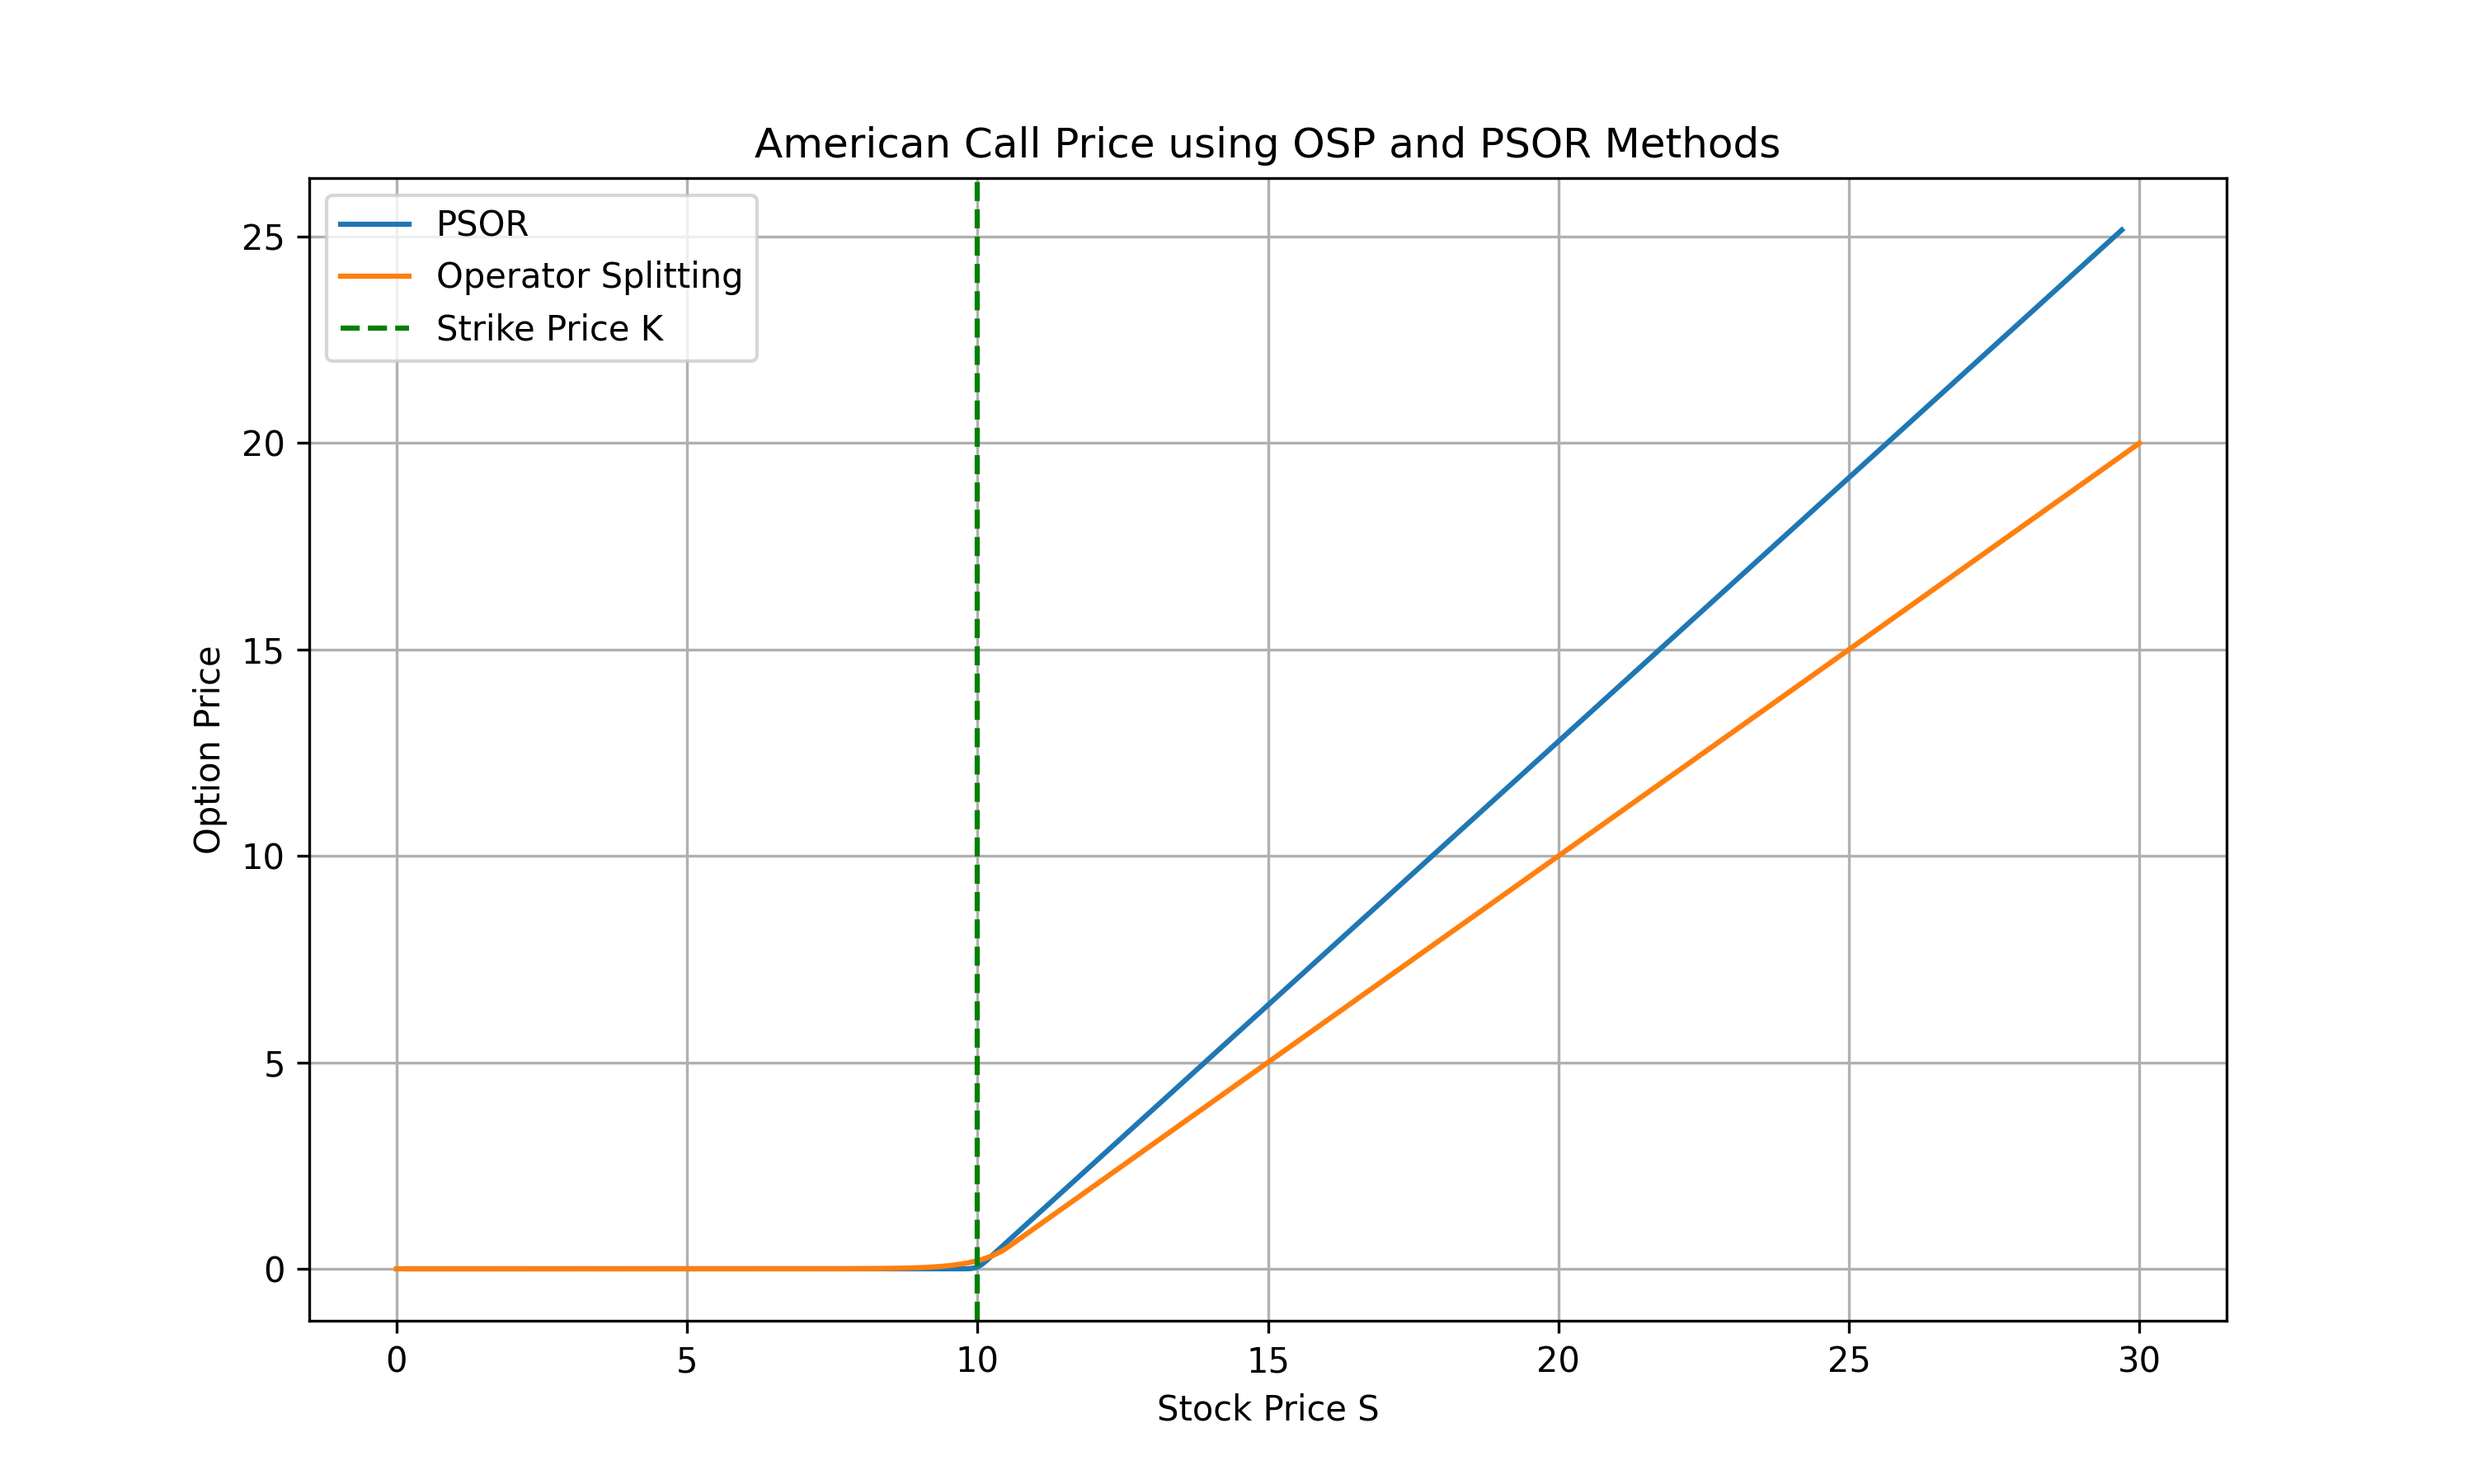
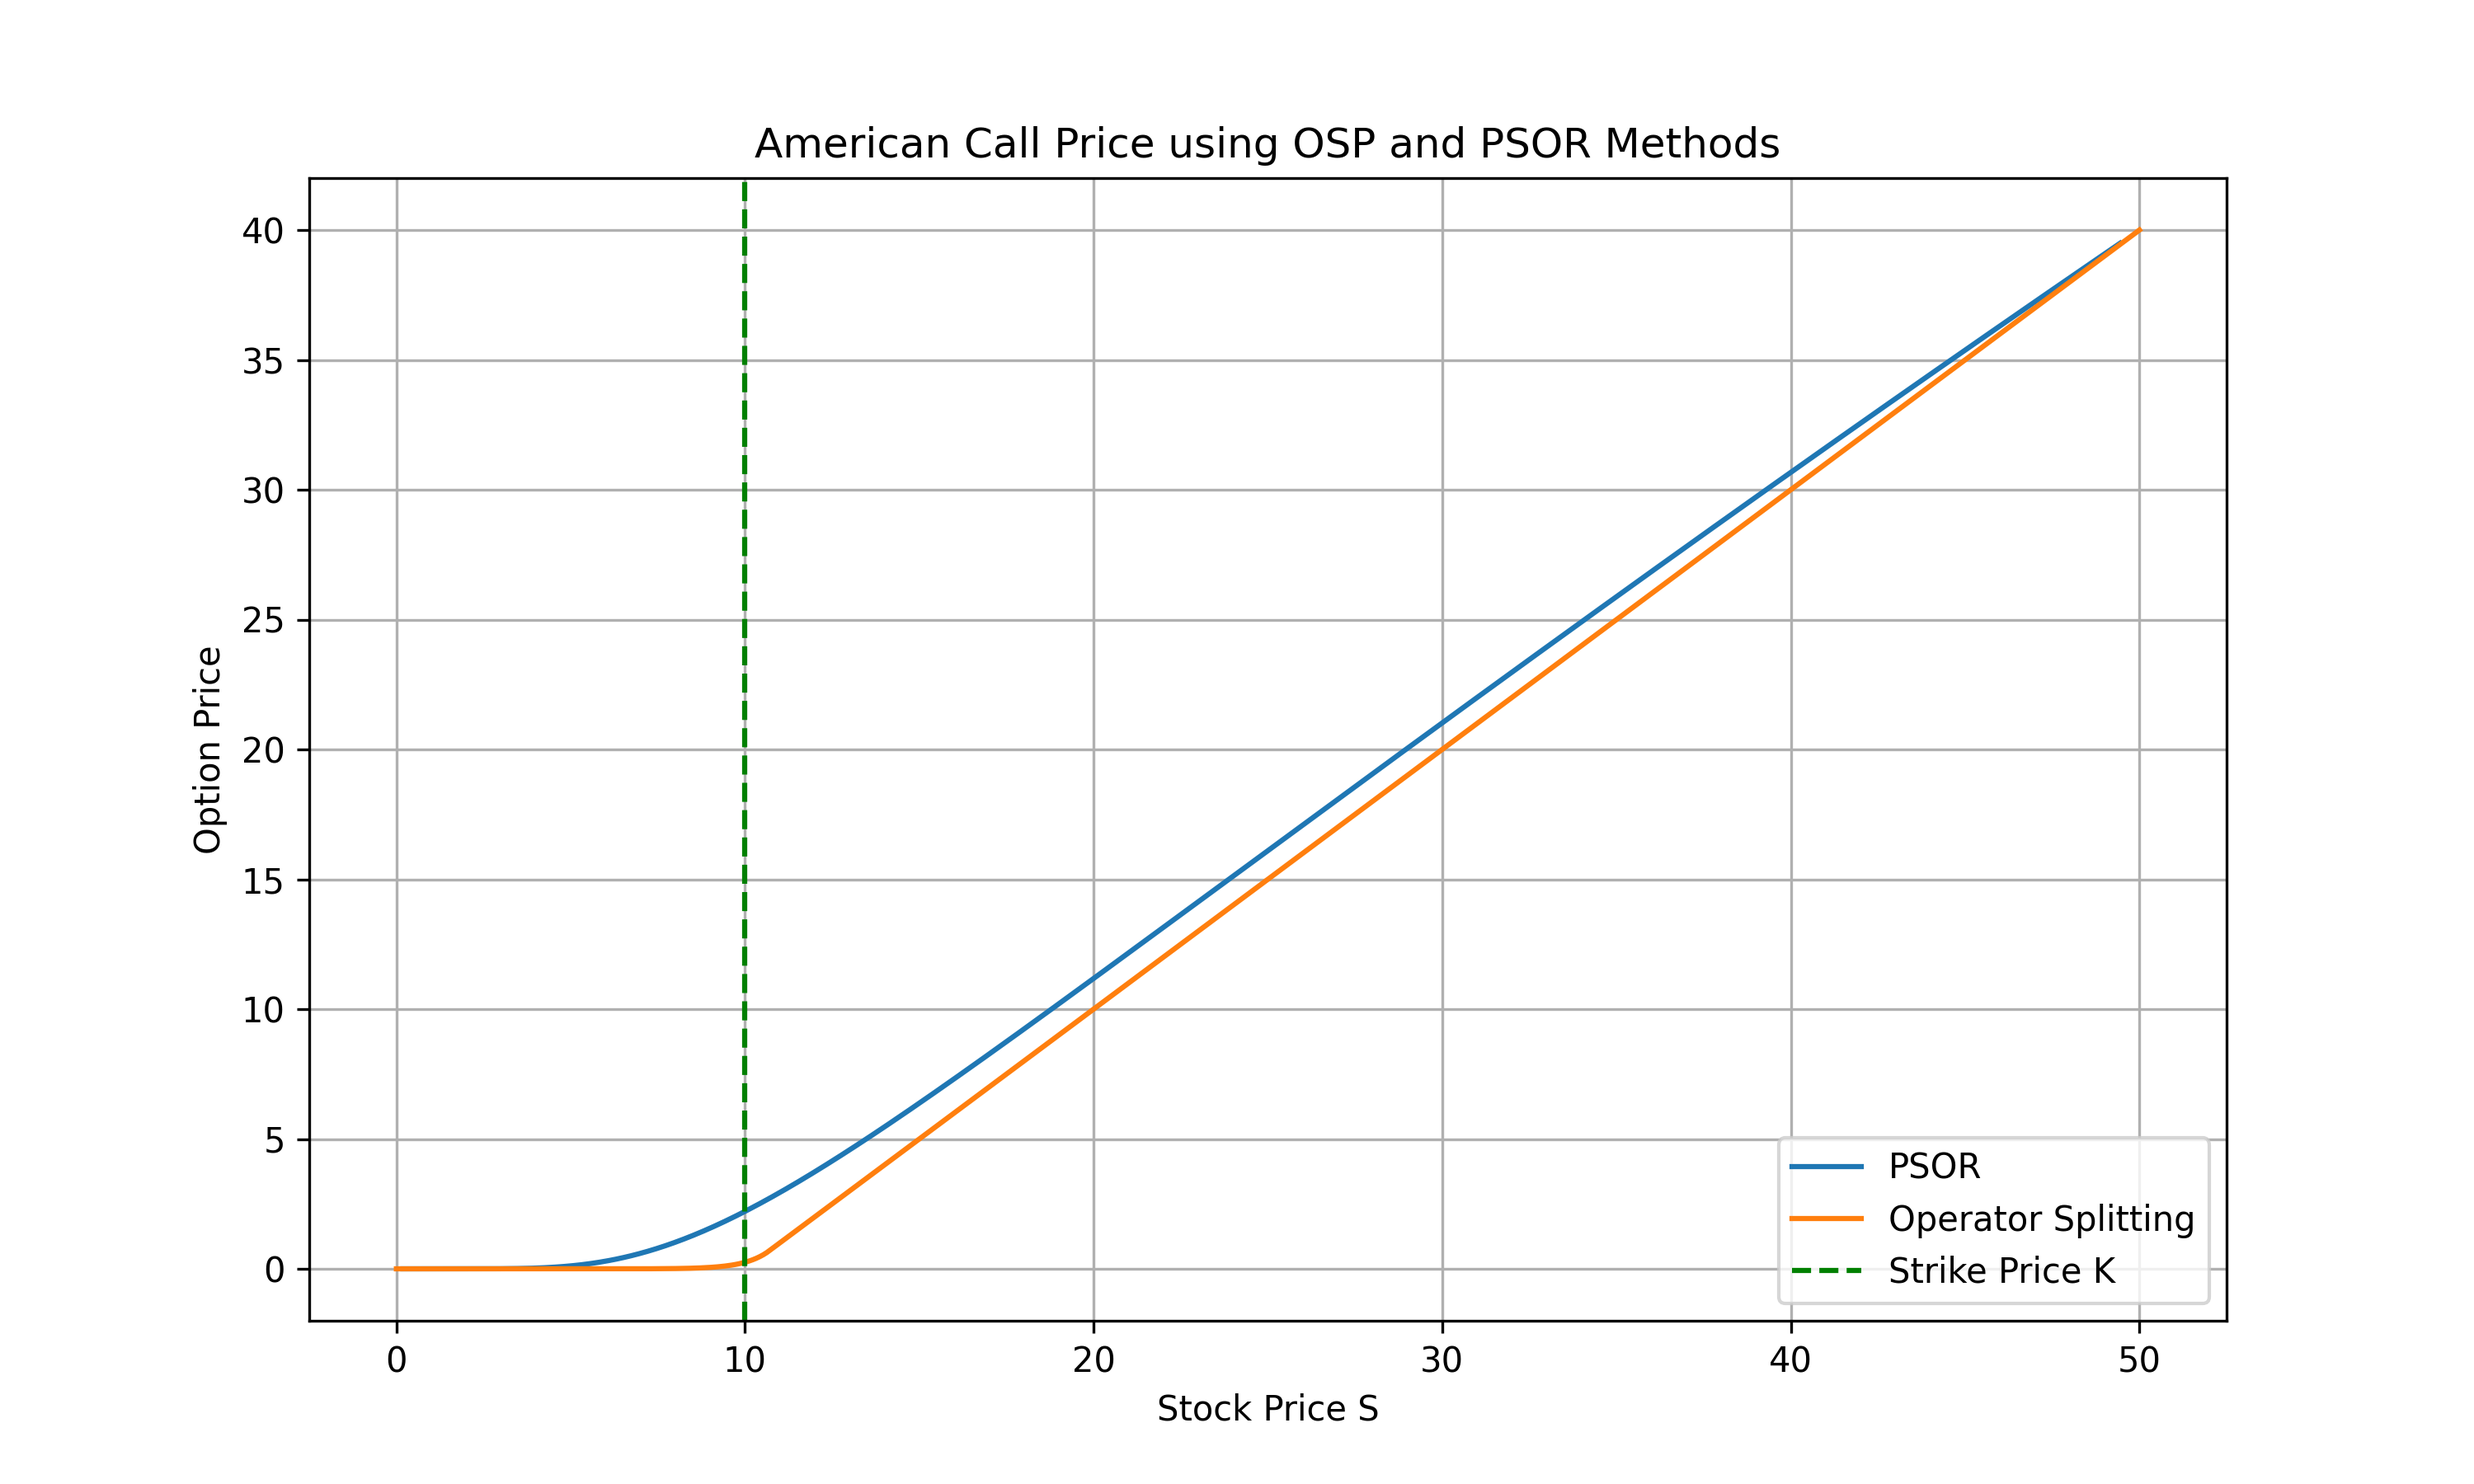
Fixed error with PSOR, now results seem reasonable

diff --git a/Solver.py b/Solver.py
@@ -18,8 +18,7 @@ from tqdm import tqdm
 
 
 class AmericanOptionSolver:
-    def __init__(self, S0, K, T, r, sigma, Smax, M, N, delta=0, theta=0.5, call=True, method='PSOR'):
-        self.S0 = S0       # Initial stock price
+    def __init__(self, K, T, r, sigma, Smax, M, N, delta=0, theta=0.5, call=True, method='PSOR'):
         self.K = K         # Strike price
         self.T = T         # Time to maturity
         self.r = r         # Risk-free interest rate
@@ -35,14 +34,14 @@ class AmericanOptionSolver:
         if method == 'PSOR':
             self.q_delta = 2*(r-delta)/sigma**2
             self.q = 2*r/sigma**2
-            self.dtau = sigma**2 * T/(N)  
+            self.dtau = sigma**2 * T/N  
             self.theta = theta # Theta for Implicit-Explicit scheme
 
             # Initialization
             #self.sol_vec = np.zeros(M+1) # Solution vector
             self.x_max = np.log(Smax/K)
-            self.x_min = -4
-            self.x = np.linspace(self.x_min, self.x_max, M+1)
+            self.x_min = - 4
+            self.x = np.linspace(self.x_min, self.x_max, M+2)
             self.dx = self.x[1] - self.x[0]
             
             self.lambda_ = self.dtau/self.dx**2
@@ -59,9 +58,9 @@ class AmericanOptionSolver:
     
     def g(self, x, tau):
         if self.call:
-            res = np.exp(tau/4 *((self.q_delta -1)**2 + 4*self.q))* np.maximum(np.exp(x/2 *(self.q_delta + 1)) - np.exp(x/2 *(self.q_delta - 1)),0)
+            res = np.exp(tau * 0.25 *((self.q_delta -1)**2 + 4*self.q)) * np.maximum(np.e**(x* 0.5 *(self.q_delta + 1)) - np.e**(x* 0.5 *(self.q_delta - 1)),0)
         else:
-            res = np.exp(tau/4 *((self.q_delta -1)**2 + 4*self.q))* np.maximum(np.exp(x/2 *(self.q_delta - 1)) - np.exp(x/2 *(self.q_delta + 1)),0)
+            res = np.exp(tau * 0.25 *((self.q_delta -1)**2 + 4*self.q)) * np.maximum(np.e**(x* 0.5 *(self.q_delta - 1)) - np.e**(x* 0.5 *(self.q_delta + 1)),0)
         return res
 
     def setup_coefficients(self):
@@ -70,13 +69,14 @@ class AmericanOptionSolver:
             # terminal condition for American put option
             self.sol_vec = self.g(x[1:-1], 0)
             # Construct A and B matrices (B calculates b_i in the report)
-            Middel_diag = np.ones(M-1) * (1+2*self.lambda_ * self.theta)
-            Lower_Higher_diag = np.ones(M-2) * (-self.lambda_ * self.theta)
+            Middel_diag = np.ones(M) * (1+2*self.lambda_ * self.theta)
+            Lower_Higher_diag = np.ones(M-1) * (-self.lambda_ * self.theta)
             A = diags([Lower_Higher_diag, Middel_diag, Lower_Higher_diag], [-1, 0, 1]).tocsc()
-
-            Middel_diag_B = np.ones(M-1) * (1-2*self.lambda_ * (1 - self.theta))
-            Lower_Higher_diag_B = np.ones(M-2) * (self.lambda_ * (1 - self.theta))
+            #print(f"A matrix shape: {A.shape}")
+            Middel_diag_B = np.ones(M) * (1-2*self.lambda_ * (1 - self.theta))
+            Lower_Higher_diag_B = np.ones(M-1) * (self.lambda_ * (1 - self.theta))
             B = diags([Lower_Higher_diag_B, Middel_diag_B, Lower_Higher_diag_B], [-1, 0, 1]).tocsc()
+            #print(f"B matrix shape: {B.shape}")
             return A, B
         else:
             M = self.M
@@ -92,6 +92,7 @@ class AmericanOptionSolver:
             #print(len(a[2:]), len(b[1:]), len(c[:-2]))
             diagonals = [a[2:], b[1:], c[:-2]]
             A = diags(diagonals, [-1, 0, 1]).tocsc()
+            #print(f"A matrix shape: {A.shape}")
 
             return A
     
@@ -134,7 +135,7 @@ class AmericanOptionSolver:
         return w
         
     
-    def psor_solver(self, A, B, omega=1.3, tol=1e-8, max_iter=10000):
+    def psor_solver(self, A, B, omega=1.3, tol=1e-7, max_iter=10000):
         M, N = self.M, self.N
         # initialize solution vector
         w = self.sol_vec.copy()
@@ -144,21 +145,24 @@ class AmericanOptionSolver:
         for v in tqdm(range(N), desc="PSOR Time Steps", unit="step"):
             tau_v = v * self.dtau
             b = B @ w
+            # Incorporate boundary conditions
             b[0] +=  beta * self.g(self.x_min, tau_v) + alpha * self.g(self.x_min, tau_v + self.dtau)
             b[-1] += beta * self.g(self.x_max, tau_v) + alpha * self.g(self.x_max, tau_v + self.dtau)
 
             # Solve using psor the Aw = b componentwise so that w >= g is obeyed
-            g_tauv = self.g(self.x[1:-1], tau_v)
+            g_tauv = self.g(self.x[1:-1], tau_v + self.dtau)
             x = w - g_tauv
             b_hat = b - A @ g_tauv
             w_new = self.psor_tridiagonal(A, b_hat, x, g_tauv, omega_R=omega, max_iter=max_iter, tol=tol)
 
-        self.sol_vec = w_new
+            w = w_new # Update for next time step
+
+        self.sol_vec = w
 
         # Get option price for all S at t=0
         S_vec = self.K * np.exp(self.x[1:-1])
         self.S = S_vec
-        price = self.K * self.sol_vec * np.exp(-self.x[1:-1]/2 *(self.q_delta - 1)) * np.exp(self.N * self.dtau*(0.25*(self.q_delta - 1)**2 + self.q))
+        price = self.K * self.sol_vec * np.exp(-self.x[1:-1]* 0.5 *(self.q_delta - 1)) * np.exp(-self.N * self.dtau * (0.25*(self.q_delta - 1)**2 + self.q))
         
         # Test for early exercise
         eps = self.K * 1e-5
@@ -240,19 +244,22 @@ class AmericanOptionSolver:
 
 # Example usage
 if __name__ == "__main__":
-    S0 = 10      # Initial stock price
     K = 10       # Strike price
     T = 1      # Time to maturity
     r = 0.06     # Risk-free interest rate
     sigma = 0.3  # Volatility
-    Smax = S0*3  # Maximum stock price considered
+    Smax = K*5  # Maximum stock price considered
     M = 500       # Number of price steps
     N = 2000     # Number of time steps
     theta = 0.5    # Theta for Implicit-Explicit scheme
     call = True   # Call option
+    if call:
+        print("Pricing American Call Option")
+    else:        
+        print("Pricing American Put Option")
     from time import time
 
-    solver = AmericanOptionSolver(S0, K, T, r, sigma, Smax, M, N, theta=theta, call=call, method='PSOR')
+    solver = AmericanOptionSolver(K, T, r, sigma, Smax, M, N, theta=theta, call=call, method='PSOR')
     A, B = solver.setup_coefficients()
     start_time = time()
     # PSOR method
@@ -268,7 +275,7 @@ if __name__ == "__main__":
         print(f"Early exercise boundary at S = {stopping_criteria:.4f}")
 
     # Operator Splitting method
-    solver_os = AmericanOptionSolver(S0, K, T, r, sigma, Smax, M, N, call=call, method='OperatorSplitting')
+    solver_os = AmericanOptionSolver(K, T, r, sigma, Smax, M, N, call=call, method='OperatorSplitting')
     A_os = solver_os.setup_coefficients()   
     start_time = time()
     price_os = solver_os.operator_splitting_solver(A_os)
